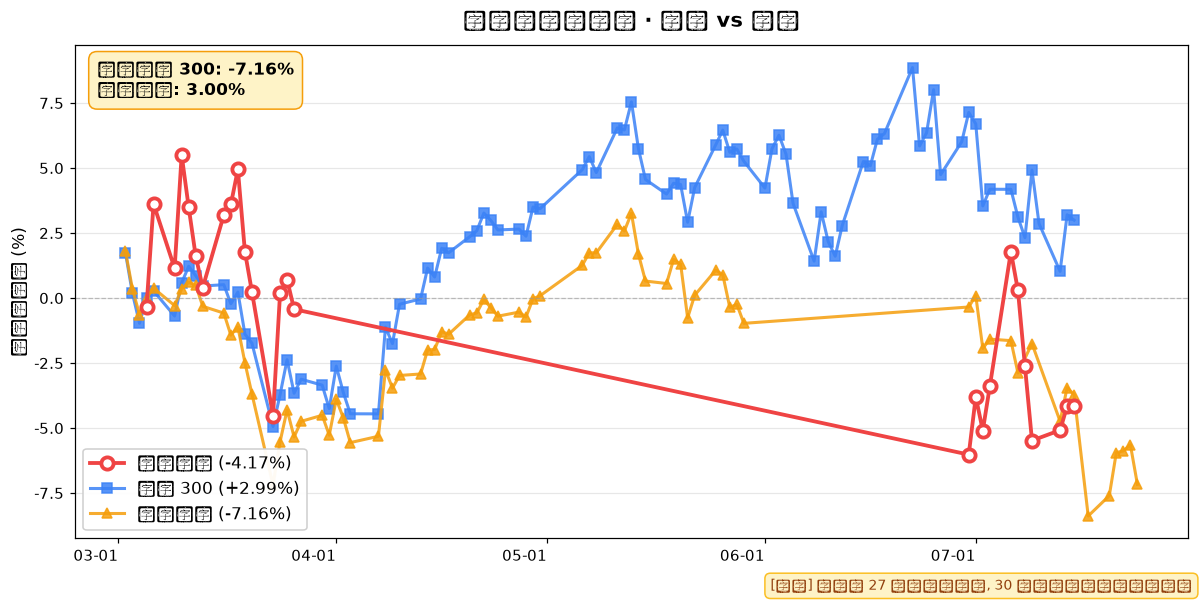
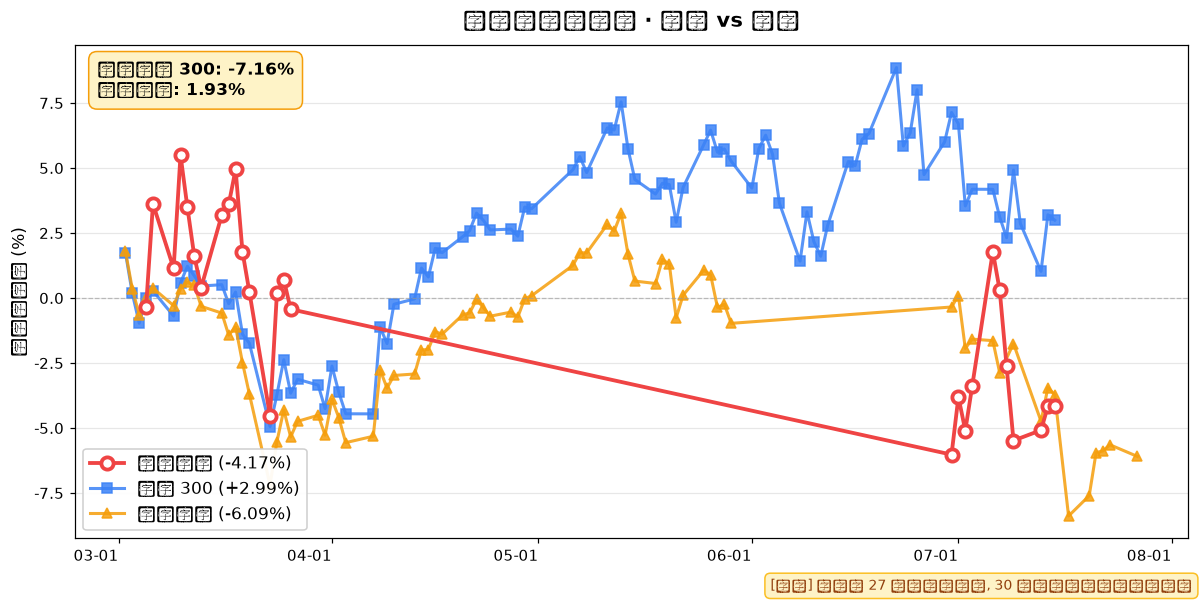
deploy dashboard 2026-07-27

diff --git a/dashboard/index.html b/dashboard/index.html
@@ -3,7 +3,7 @@
 <head>
 <meta charset="UTF-8">
 <meta name="viewport" content="width=device-width, initial-scale=1.0, user-scalable=no">
-<title>持仓 Dashboard · 2026-07-24</title>
+<title>持仓 Dashboard · 2026-07-27</title>
 <meta http-equiv="Cache-Control" content="no-cache">
 <style>
   * { margin: 0; padding: 0; box-sizing: border-box; }
@@ -111,7 +111,7 @@
 
 <div class="header">
   <h1 data-i18n="title">📊 持仓 Dashboard</h1>
-  <div class="date">2026-07-24 · 更新于 08:39</div>
+  <div class="date">2026-07-27 · 更新于 08:20</div>
 </div>
 
 <div class="hero-pnl" style="padding:16px">
@@ -123,8 +123,8 @@
       <div style="font-size:11px;color:#9ca3af"><span data-i18n="sublabel1">(持仓浮盈/亏)</span></div>
     </div>
     <div style="text-align:right">
-      <div style="font-size:18px;font-weight:700;color:#fff">-1094.70 元</div>
-      <div style="font-size:12px;color:#ffffffee">-5.95%</div>
+      <div style="font-size:18px;font-weight:700;color:#fff">-564.70 元</div>
+      <div style="font-size:12px;color:#ffffffee">-3.07%</div>
     </div>
   </div>
 
@@ -145,8 +145,8 @@
       <div style="font-size:11px;color:#9ca3af">总% vs 初始总投入</div>
     </div>
     <div style="text-align:right">
-      <div style="font-size:22px;font-weight:800;color:#fff">-586.10 元</div>
-      <div style="font-size:13px;color:#ffffffee">-1.65%</div>
+      <div style="font-size:22px;font-weight:800;color:#fff">-56.10 元</div>
+      <div style="font-size:13px;color:#ffffffee">-0.16%</div>
     </div>
   </div>
 </div>
@@ -157,42 +157,42 @@
 
 <div class="excess">
         <b>🟢 跑输 沪深 300</b>: -7.16%<br>
-        <b>🔴 跑赢 上证指数</b>: +3.00%
+        <b>🔴 跑赢 上证指数</b>: +1.93%
     </div>
 
 <div class="section">
   <h2 data-i18n="section2">💼 当前持仓 (2 只)</h2>
-  <div class="holding-card loss">
+  <div class="holding-card ">
           <div class="name">金地集团 <span style="color:#9ca3af;font-weight:normal">(600383)</span></div>
           <div class="row"><span class="k">持仓</span><span>600.0 股</span></div>
           <div class="row"><span class="k">成本</span><span>2.199</span></div>
-          <div class="row"><span class="k">现价</span><span>2.150</span></div>
-          <div class="row"><span class="k">盈亏</span><span class="green">-29.40 (-2.23%)</span></div>
+          <div class="row"><span class="k">现价</span><span>2.210</span></div>
+          <div class="row"><span class="k">盈亏</span><span class="red">+6.60 (+0.50%)</span></div>
         </div>
 <div class="holding-card loss">
           <div class="name">杉杉股份 <span style="color:#9ca3af;font-weight:normal">(600884)</span></div>
           <div class="row"><span class="k">持仓</span><span>1300.0 股</span></div>
           <div class="row"><span class="k">成本</span><span>13.129</span></div>
-          <div class="row"><span class="k">现价</span><span>12.310</span></div>
-          <div class="row"><span class="k">盈亏</span><span class="green">-1065.30 (-6.24%)</span></div>
+          <div class="row"><span class="k">现价</span><span>12.690</span></div>
+          <div class="row"><span class="k">盈亏</span><span class="green">-571.30 (-3.35%)</span></div>
         </div>
 </div>
 
 <div class="section"><h2>🚪 已清仓 (2 只)</h2><div style="font-size:11px;color:#9ca3af;margin-bottom:8px">
         清仓释放本金 <b>17676.50</b> 元 · 累计实现 <b style="color:#ef4444">+508.60</b> 元
     </div><div class="holding-card loss" style="border-left-color:#6b7280">
-          <div class="name">513780 <span style="color:#9ca3af;font-weight:normal">(513780) 已清仓</span></div>
-          <div class="row"><span class="k">清仓日</span><span>-</span></div>
-          <div class="row"><span class="k">成本</span><span>14927.90</span></div>
-          <div class="row"><span class="k">收回</span><span>15404.50</span></div>
-          <div class="row"><span class="k">实现盈亏</span><span class="red">+461.60 (+3.09%)</span></div>
-        </div>
-<div class="holding-card loss" style="border-left-color:#6b7280">
           <div class="name">600755 <span style="color:#9ca3af;font-weight:normal">(600755) 已清仓</span></div>
           <div class="row"><span class="k">清仓日</span><span>-</span></div>
           <div class="row"><span class="k">成本</span><span>2220.00</span></div>
           <div class="row"><span class="k">收回</span><span>2272.00</span></div>
           <div class="row"><span class="k">实现盈亏</span><span class="red">+47.00 (+2.12%)</span></div>
+        </div>
+<div class="holding-card loss" style="border-left-color:#6b7280">
+          <div class="name">513780 <span style="color:#9ca3af;font-weight:normal">(513780) 已清仓</span></div>
+          <div class="row"><span class="k">清仓日</span><span>-</span></div>
+          <div class="row"><span class="k">成本</span><span>14927.90</span></div>
+          <div class="row"><span class="k">收回</span><span>15404.50</span></div>
+          <div class="row"><span class="k">实现盈亏</span><span class="red">+461.60 (+3.09%)</span></div>
         </div></div>
 
 <div class="section">
@@ -203,18 +203,18 @@
           <td>金地集团</td>
           <td class="num">600.0</td>
           <td class="num">2.199</td>
-          <td class="num">2.150</td>
-          <td class="num green">-29.40</td>
-          <td class="num green">-2.23%</td>
-          <td class="num green">+2.7%</td>
+          <td class="num">2.210</td>
+          <td class="num red">+6.60</td>
+          <td class="num red">+0.50%</td>
+          <td class="num red">-1.2%</td>
         </tr><tr>
           <td>杉杉股份</td>
           <td class="num">1300.0</td>
           <td class="num">13.129</td>
-          <td class="num">12.310</td>
-          <td class="num green">-1065.30</td>
-          <td class="num green">-6.24%</td>
-          <td class="num green">+97.3%</td>
+          <td class="num">12.690</td>
+          <td class="num green">-571.30</td>
+          <td class="num green">-3.35%</td>
+          <td class="num green">+101.2%</td>
         </tr>
     </table>
 </div>
